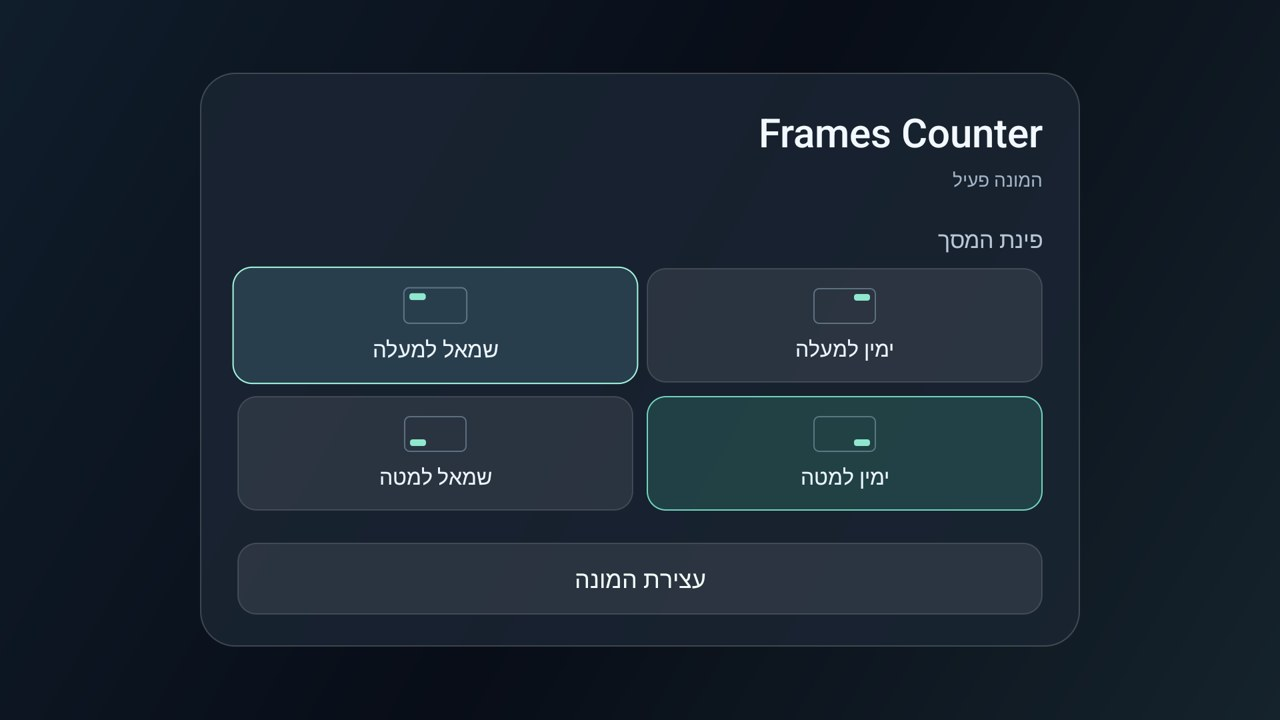
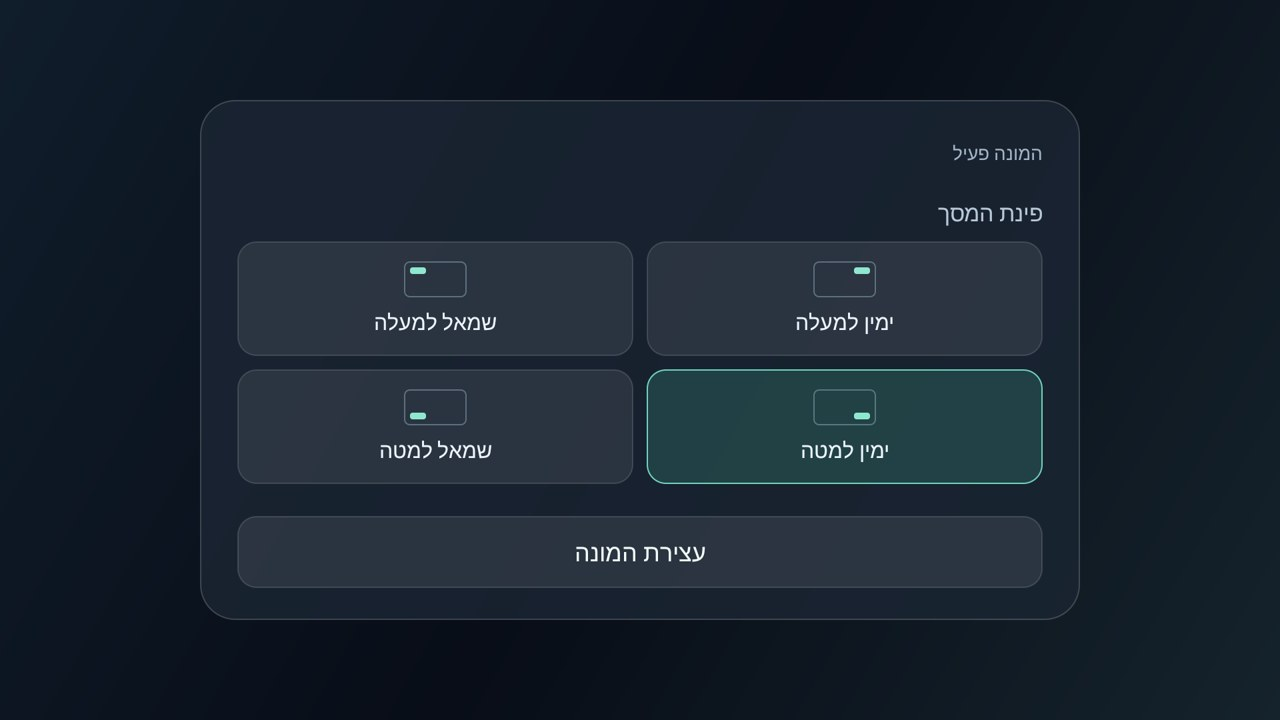
addons: remove Frames Counter menu heading

diff --git a/addons/app-fps/app/src/main/java/com/lionlev/tv/fps/MainActivity.java b/addons/app-fps/app/src/main/java/com/lionlev/tv/fps/MainActivity.java
@@ -44,12 +44,6 @@ public final class MainActivity extends Activity {
         FrameLayout.LayoutParams place = new FrameLayout.LayoutParams(
                 Math.min(dp(660), getResources().getDisplayMetrics().widthPixels - dp(64)), -2, Gravity.CENTER);
         root.addView(panel, place);
-        TextView title = text(R.string.app_name, 30, 0xfff2f8ff);
-        title.setTextDirection(View.TEXT_DIRECTION_LTR);
-        title.setGravity(android.text.TextUtils.getLayoutDirectionFromLocale(
-                getResources().getConfiguration().getLocales().get(0)) == View.LAYOUT_DIRECTION_RTL
-                ? Gravity.RIGHT : Gravity.LEFT);
-        panel.addView(title);
         status = text(R.string.state_off, 14, 0xffa3b4c5);
         LinearLayout.LayoutParams statusSize = new LinearLayout.LayoutParams(-1, -2);
         statusSize.setMargins(0, dp(6), 0, dp(24));
